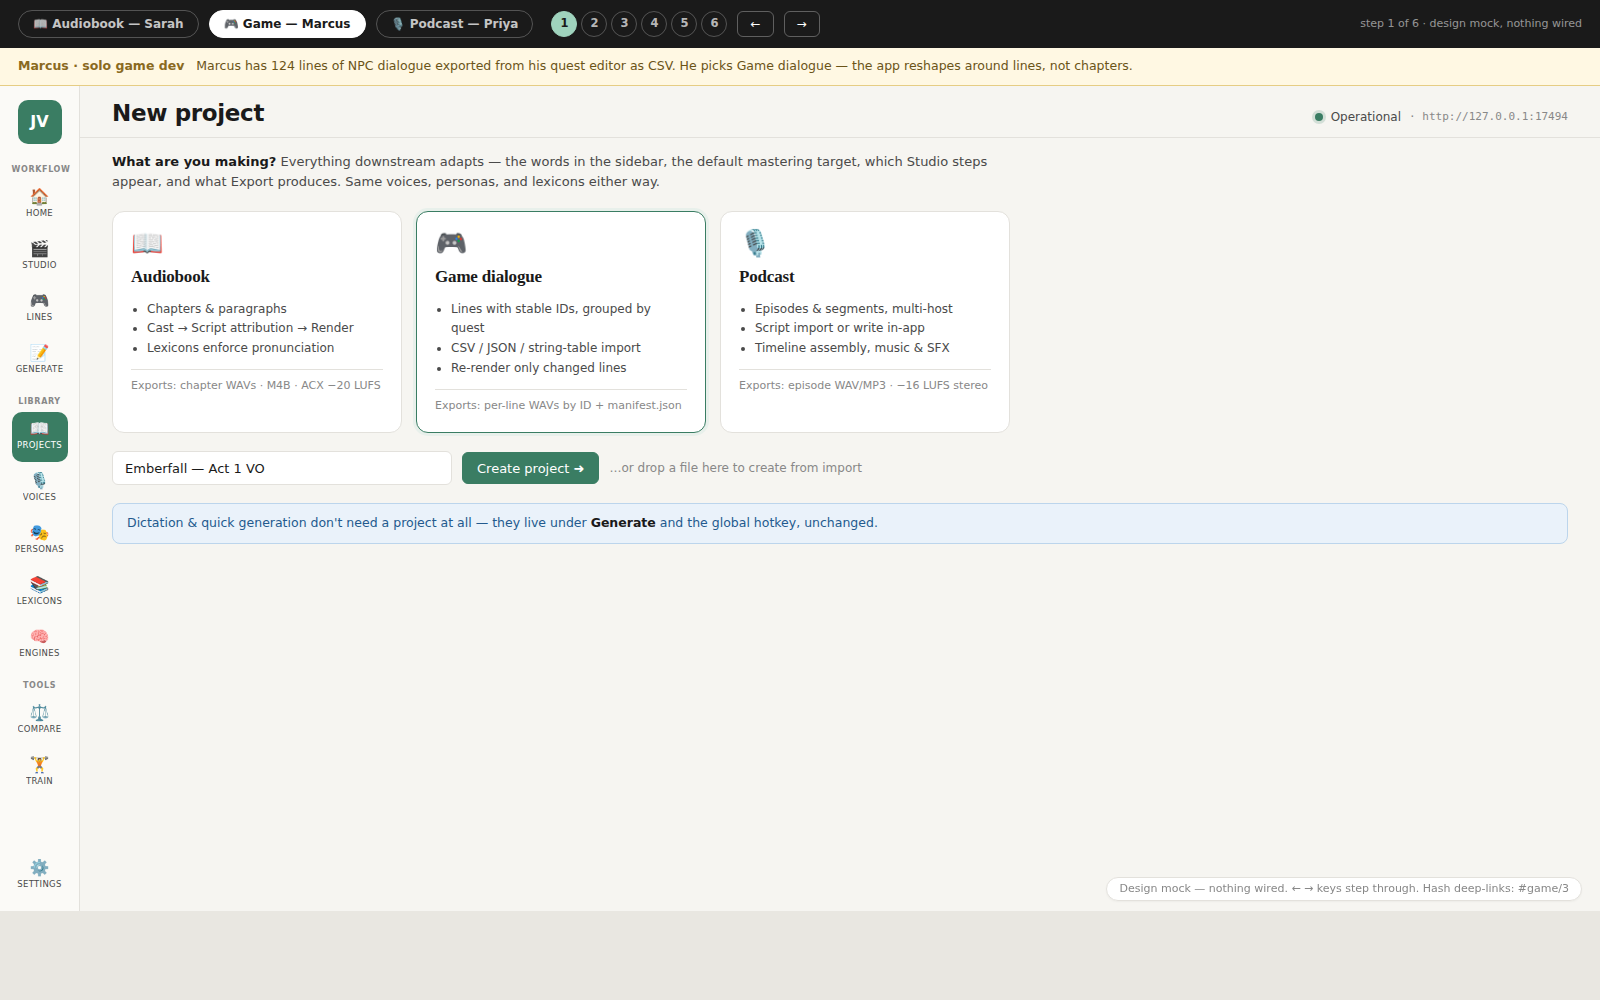
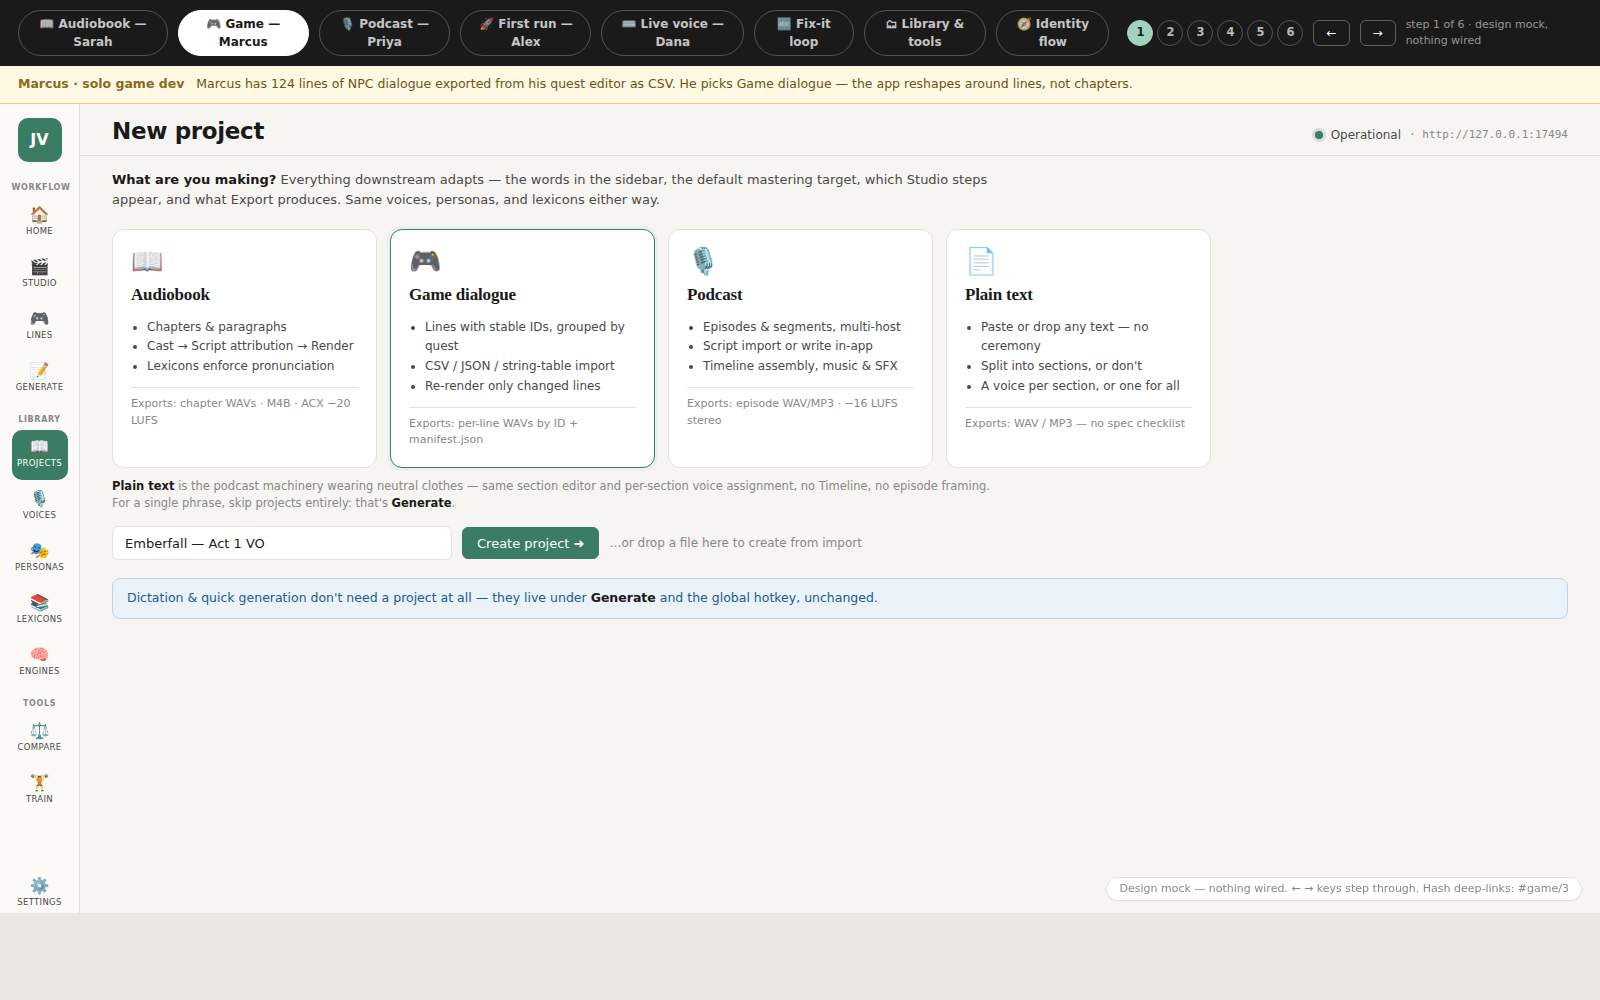
feat(design): journeys preview — Library & tools sweep (9 screens) + Plain-text kind
Library tab: Generate, Voices table w/ cast-as column, Personas library
w/ used-in chips, Projects list, Train fine-tune job, Render presets +
effects-chain editor, Audio channels & tools, Cache stats, Settings map.
Kind picker gains 📄 Plain text — thin alias over podcast segment
machinery (neutral labels, no Timeline, plain export). CONCEPTS §8
records the decision.

https://claude.ai/code/session_01RnHLzYNeJn2GgAMKW1BPmR

Changed region(s): [[0.0, 0.0, 1.0, 0.806], [0.0625, 0.589, 0.5625, 0.62], [0.0, 0.868, 0.0312, 0.899]]

diff --git a/preview/journeys-preview.html b/preview/journeys-preview.html
@@ -112,7 +112,7 @@ main{display:flex;flex-direction:column;overflow:hidden;background:var(--bg)}
 .vtable .grp td{background:var(--surface-3);font-weight:600;color:var(--ink);font-size:12px;padding:6px 13px}
 
 /* ── Kind picker ── */
-.kind-grid{display:grid;grid-template-columns:repeat(3,minmax(220px,290px));gap:14px;margin:8px 0 18px}
+.kind-grid{display:grid;grid-template-columns:repeat(4,minmax(200px,265px));gap:13px;margin:8px 0 18px}
 .kind-card{display:flex;flex-direction:column;gap:8px;background:var(--surface);border:1px solid var(--line);border-radius:12px;padding:18px;cursor:pointer;text-align:left}
 .kind-card:hover{border-color:var(--line-strong)}
 .kind-card.sel{border-color:var(--accent);box-shadow:0 0 0 3px var(--accent-soft)}
@@ -328,7 +328,9 @@ function kindPicker(sel){
       ${card("audiobook","📖","Audiobook",["Chapters &amp; paragraphs","Cast → Script attribution → Render","Lexicons enforce pronunciation"],"Exports: chapter WAVs · M4B · ACX −20 LUFS")}
       ${card("game","🎮","Game dialogue",["Lines with stable IDs, grouped by quest","CSV / JSON / string-table import","Re-render only changed lines"],"Exports: per-line WAVs by ID + manifest.json")}
       ${card("podcast","🎙","Podcast",["Episodes &amp; segments, multi-host","Script import or write in-app","Timeline assembly, music &amp; SFX"],"Exports: episode WAV/MP3 · −16 LUFS stereo")}
+      ${card("narration","📄","Plain text",["Paste or drop any text — no ceremony","Split into sections, or don't","A voice per section, or one for all"],"Exports: WAV / MP3 — no spec checklist")}
     </div>
+    <p class="muted" style="font-size:11.5px;margin:-8px 0 14px;max-width:880px"><strong>Plain text</strong> is the podcast machinery wearing neutral clothes — same section editor and per-section voice assignment, no Timeline, no episode framing. For a single phrase, skip projects entirely: that's <strong>Generate</strong>.</p>
     <div class="row">
       <input class="input" style="max-width:340px" value="${sel==='audiobook'?'Stillwater':sel==='game'?'Emberfall — Act 1 VO':'Signal & Noise'}" />
       <button class="btn">Create project ➜</button>
@@ -1000,6 +1002,149 @@ const stepsFixit = [
 ];
 
 
+/* ════════════════════════════════════════════════════════════════════
+   Journey G — Library & tools sweep (every remaining surface, in flow order)
+   ════════════════════════════════════════════════════════════════════ */
+const stepsLibrary = [
+{ nav:"Generate", t:"Generate — the no-project surface. Paste text, pick a voice, get a WAV. The knobs change with the engine's actual capabilities.",
+  html: () => shell("audiobook","Generate","Generate", "", `
+    <div class="two-col">
+      <div class="card"><div class="card-h"><strong>Quick generate</strong><span class="combo-cell">${glyph("Alex","#3a7d63")} Alex (cloned)<span class="chev">▼</span></span><span class="pill green">Chatterbox Turbo</span></div><div class="card-b">
+        <textarea class="input" style="height:90px;padding:10px 12px;resize:none">Welcome back. [chuckles] Let's pick up where we left off — chapter five, the storm cellar.</textarea>
+        <div class="row" style="margin:10px 0 4px;font-size:11.5px"><span class="muted">Insert tag:</span><span class="tagp">[laughs]</span><span class="tagp">[chuckles]</span><span class="tagp">[sighs]</span><span class="tagp">[whisper]</span><span class="muted" style="font-size:10.5px">— tags this engine supports; switching engine swaps the palette</span></div>
+        <div class="row" style="margin-top:10px">
+          <span class="pill">speed 1.0×</span><span class="pill">exaggeration 0.4</span><span class="pill">cfg 0.5</span><span class="pill ghost">+ engine knobs from capability manifest</span>
+          <span class="spacer"></span><button class="btn">▶ Generate</button>
+        </div>
+      </div></div>
+      <div class="card"><div class="card-h"><strong>History</strong><span class="muted" style="font-size:11.5px">today</span></div><div class="card-b">
+        ${[["Welcome back. [chuckles] Let's pick up where we…","Alex","2.8 s","just now"],["The lake had a way of holding the morning fog…","Alex","4.1 s","5 min"],["testing one two three","af_heart","1.2 s","1 h"]]
+          .map(h=>`<div class="row" style="border:1px solid var(--line);border-radius:8px;padding:8px 11px;margin-bottom:7px;flex-wrap:nowrap;font-size:12px"><button class="btn ghost sm">▶</button><span style="flex:1;min-width:0;overflow:hidden;text-overflow:ellipsis;white-space:nowrap">${h[0]}</span><span class="muted" style="flex:none;font-size:11px">${h[1]} · ${h[2]} · ${h[3]}</span><button class="btn ghost sm">⬇</button></div>`).join("")}
+        <p class="muted" style="font-size:11.5px;margin-top:4px">History is kept; anything good can be saved as a take or promoted into a project.</p>
+      </div></div>
+    </div>`) },
+
+{ nav:"Voices", t:"The voice library — every type in one table: cloned, preset, blended, trained. The “cast as” column links voices to the personas they back.",
+  html: () => shell("audiobook","Voices","Voices", "", `
+    <div class="row" style="margin-bottom:10px"><span class="combo-cell">Chatterbox Turbo<span class="chev">▼</span></span><input class="input" style="max-width:240px" placeholder="Search voices…"/><div class="chips"><button class="chip active">All</button><button class="chip">Cloned</button><button class="chip">Preset</button><button class="chip">Blended</button><button class="chip">Trained</button></div><span class="spacer"></span><button class="btn secondary sm">⬇ Import</button><button class="btn sm">＋ Clone new voice</button></div>
+    <div class="card" style="flex:1;min-height:0;overflow-y:auto">
+      <table class="vtable"><thead><tr><th style="width:30px"></th><th>Name</th><th>Type</th><th>G</th><th>Samples</th><th>Effects</th><th>Channel</th><th>Cast as</th><th class="right"></th></tr></thead><tbody>
+        ${[["Alex","cloned","M","3","—","Default","—"],["Sarah","cloned","F","4","—","Default","Narrator · Sarah (host)"],["Mara","cloned","F","2","radio","Default","Mara Vance · Vyra"],["Old Crow","cloned","M","3","radio · gain","OBS virtual","Tom Harlan · Capt. Hale"],["Blend: Narrator+Crow","blended","M","—","—","Default","The Gatekeeper"],["Alex (fine-tuned)","trained","M","12","—","Default","—"],["af_heart","preset","F","—","—","Default","Edith Vance"]]
+          .map(v=>`<tr><td><button class="btn ghost sm">▶</button></td><td><strong>${v[0]}</strong></td><td><span class="pill ${v[1]==='cloned'?'green':v[1]==='trained'?'blue':''}">${v[1]}</span></td><td>${v[2]}</td><td>${v[3]}</td><td class="muted" style="font-size:12px">${v[4]}</td><td class="muted" style="font-size:12px">${v[5]}</td><td class="muted" style="font-size:11.5px">${v[6]}</td><td class="right"><button class="btn ghost sm">Edit</button></td></tr>`).join("")}
+      </tbody></table>
+    </div>`) },
+
+{ nav:"Personas", t:"The persona library — characters that persist across projects. The “used in” chips are the whole reason personas exist.",
+  html: () => shell("audiobook","Personas","Personas", "", `
+    <div class="row" style="margin-bottom:10px"><input class="input" style="max-width:260px" placeholder="Search personas…"/><span class="spacer"></span><button class="btn sm">＋ New persona</button></div>
+    <div class="cast-grid" style="overflow-y:auto;padding:2px">
+      ${[["Mara Vance","mara","Mara (cloned)","speed 0.95× · noir","Stillwater"],
+         ["Narrator (Sarah)","narr","Sarah (cloned)","unhurried · warm","Stillwater"],
+         ["Tom Harlan","tom","Old Crow (cloned)","—","Stillwater"],
+         ["Guard Capt. Hale","guard","Old Crow (cloned)","gruff · +5% pace","Emberfall"],
+         ["The Hollow Voice","ghost","Blend: Narr+Crow","whisper · reverb chain","Emberfall"],
+         ["Sarah (host)","sarah","Sarah (cloned)","bright · +3% pace","Signal & Noise"]]
+        .map(p=>`<div class="cast-card"><span class="portrait" style="background:${C[p[1]]}">${p[0][0]}</span><div style="min-width:0;flex:1"><strong>${p[0]}</strong><div class="cast-voice">${glyph(p[2],C[p[1]])} ${p[2]} <button class="btn ghost sm">▶</button></div><div class="cast-role" style="margin-top:3px">${p[3]}</div><div style="margin-top:7px"><span class="eyebrow" style="font-size:9px">used in</span> <span class="pill ghost" style="font-size:10px">${p[4]}</span></div></div></div>`).join("")}
+    </div>
+    <div class="banner info" style="margin-top:12px">Editing a persona here (or on any Cast screen — same object) follows it everywhere it's used. “Duplicate for project” is the escape hatch for one-off variations.</div>`) },
+
+{ nav:"Projects", t:"All projects, all kinds, one list. The kind badge tells you what vocabulary and pipeline you'll land in when you open it.",
+  html: () => shell("audiobook","Projects","Projects", "", `
+    <div class="row" style="margin-bottom:10px"><input class="input" style="max-width:260px" placeholder="Search projects…"/><div class="chips"><button class="chip active">All</button><button class="chip">📖</button><button class="chip">🎮</button><button class="chip">🎙</button><button class="chip">📄</button></div><span class="spacer"></span><button class="btn sm">＋ New project</button></div>
+    <div class="card" style="flex:1;min-height:0;overflow-y:auto">
+      <table class="vtable"><thead><tr><th>Project</th><th>Kind</th><th class="right">Structure</th><th>Progress</th><th class="right">Last opened</th><th class="right"></th></tr></thead><tbody>
+        ${[["Stillwater","📖 Audiobook","8 chapters · 583 lines",'<span class="pill green">2 ch. mastered</span>',"today"],
+           ["Emberfall — Act 1 VO","🎮 Game","6 quests · 124 lines",'<span class="pill warn">12 stale</span>',"today"],
+           ["Signal & Noise","🎙 Podcast","42 episodes",'<span class="pill green">ep. 42 exported</span>',"yesterday"],
+           ["Q3 onboarding narration","📄 Narration","14 sections",'<span class="pill green">exported</span>',"Tue"],
+           ["Stillwater — book two","📖 Audiobook","3 chapters · draft",'<span class="pill ghost">—</span>',"Mon"]]
+          .map(p=>`<tr><td><strong>${p[0]}</strong></td><td>${p[1]}</td><td class="right muted" style="font-size:12px">${p[2]}</td><td>${p[3]}</td><td class="right muted" style="font-size:11.5px">${p[4]}</td><td class="right"><button class="btn ghost sm">Open ➜</button></td></tr>`).join("")}
+      </tbody></table>
+    </div>
+    <p class="muted" style="font-size:12px;margin-top:10px">Note <em>Stillwater — book two</em>: opened with the same cast — every persona arrived with voice, delivery, effects and lexicon intact.</p>`) },
+
+{ nav:"Train", t:"Train — when instant cloning isn't tight enough. Fine-tune on 10+ minutes; the result lands in the library as a new voice.",
+  html: () => shell("audiobook","Train","Train — fine-tune “Alex”", "", `
+    <div class="two-col">
+      <div class="card"><div class="card-h"><strong>Dataset</strong><span class="pill">14 min 20 s</span></div><div class="card-b">
+        ${[["3 clone samples","39.7 s","from Voices"],["9 promoted captures","2 min 41 s","from Captures"],["narration_session_01.wav","11 min","uploaded"]]
+          .map(d=>`<div class="row" style="border:1px solid var(--line);border-radius:8px;padding:8px 12px;margin-bottom:7px;flex-wrap:nowrap;font-size:12.5px"><input type="checkbox" checked style="accent-color:var(--accent)"/><strong style="flex:1">${d[0]}</strong><span class="muted" style="font-size:11.5px">${d[1]} · ${d[2]}</span></div>`).join("")}
+        <div class="banner good" style="margin-top:8px">10+ minutes recommended · transcripts auto-generated and editable before the run.</div>
+      </div></div>
+      <div class="card"><div class="card-h"><strong>Job</strong><span class="pill blue">running</span></div><div class="card-b">
+        <div class="sum-row"><span>Base</span><b>Alex (cloned) · Chatterbox Turbo</b></div>
+        <div class="sum-row"><span>Output name</span><b>Alex (fine-tuned)</b></div>
+        <div class="sum-row"><span>GPU</span><b>RTX 4070 · ~35 min est.</b></div>
+        <div style="margin:14px 0 6px" class="row"><span class="eyebrow" style="flex:none">epoch 6 / 20</span><div class="prog" style="flex:1"><div class="fill" style="width:31%"></div></div><span class="muted" style="font-size:11px">31%</span></div>
+        <div class="codeblock" style="margin-top:10px"><span class="k">epoch 5</span>  loss 0.241 → 0.198   <span class="s">val improving</span>
+<span class="k">epoch 6</span>  checkpoint saved · sample rendered ▶</div>
+        <div class="row" style="margin-top:10px"><button class="btn secondary sm">▶ Listen to epoch-6 sample</button><button class="btn ghost sm">Cancel job</button></div>
+      </div></div>
+    </div>`) },
+
+{ nav:"Studio", t:"Render presets + the effects-chain editor — the Tier-3 overlay that wins over persona defaults for one render job.",
+  html: () => shell("audiobook","Studio","Render presets", "", `
+    <div class="two-col">
+      <div class="card"><div class="card-h"><strong>Preset library</strong><span class="spacer"></span><button class="btn sm">＋ New preset</button></div><div class="card-b" style="padding:0">
+        <table class="vtable"><thead><tr><th>Preset</th><th>Master</th><th>Effects</th><th>Delivery</th><th class="right"></th></tr></thead><tbody>
+          ${[["Audiobook night mode","acx","warmth · de-ess","speed 0.97×"],["Quick draft (Kokoro)","—","—","speed 1.15×"],["Game VO — radio","—","bandpass · crush · gain","—"],["Podcast master","podcast","gate · de-ess","—"]]
+            .map((r,i)=>`<tr ${i===0?'style="background:var(--accent-soft)"':''}><td><strong>${r[0]}</strong></td><td><span class="pill ${r[1]!=='—'?'green':'ghost'}">${r[1]}</span></td><td class="muted" style="font-size:12px">${r[2]}</td><td class="muted" style="font-size:12px">${r[3]}</td><td class="right"><button class="btn ghost sm">Edit</button></td></tr>`).join("")}
+        </tbody></table>
+      </div></div>
+      <div class="card"><div class="card-h"><strong>Effects chain — “Audiobook night mode”</strong></div><div class="card-b">
+        <p class="muted" style="font-size:11.5px;margin-bottom:10px">Pedalboard-applied after TTS. Drag to reorder. Cascade: persona chain → preset chain (overlay) → per-line override.</p>
+        ${[["High-pass","80 Hz"],["De-esser","−4 dB @ 6 kHz"],["Warmth (sat)","drive 0.2"],["Gain","−1.5 dB"]]
+          .map((e,i)=>`<div class="row" style="border:1px solid var(--line);border-radius:8px;padding:9px 12px;margin-bottom:7px;flex-wrap:nowrap"><span class="muted" style="cursor:grab">⠿</span><strong style="flex:1;font-size:12.5px">${i+1} · ${e[0]}</strong><span class="mono muted" style="font-size:11px">${e[1]}</span><button class="btn ghost sm">✕</button></div>`).join("")}
+        <div class="row"><button class="btn secondary sm">＋ Add effect</button><span class="spacer"></span><button class="btn secondary sm">▶ Preview on test line</button></div>
+      </div></div>
+    </div>`) },
+
+{ nav:"Settings", t:"Audio channels & tools — where outputs route, and the standalone analyzer for any WAV that comes in or goes out.",
+  html: () => shell("audiobook","Settings","Audio — channels & tools", "", `
+    <div class="two-col">
+      <div class="card"><div class="card-h"><strong>Channels</strong><span class="spacer"></span><button class="btn secondary sm">＋ Add channel</button></div><div class="card-b" style="padding:0">
+        <table class="vtable"><thead><tr><th>Channel</th><th>Device</th><th>Used by</th><th class="right"></th></tr></thead><tbody>
+          ${[["Default","System speakers","previews · Generate"],["OBS Virtual Mic","VB-Cable A","Dana hotkey · Old Crow"],["Discord cable","VB-Cable B","Dana (alt)"],["Monitor","Headphones","render preview"]]
+            .map(c=>`<tr><td><strong>${c[0]}</strong></td><td class="muted" style="font-size:12px">${c[1]}</td><td class="muted" style="font-size:12px">${c[2]}</td><td class="right"><button class="btn ghost sm">▶ test</button></td></tr>`).join("")}
+        </tbody></table>
+      </div></div>
+      <div class="card"><div class="card-h"><strong>Audio tools</strong><span class="muted" style="font-size:11.5px">same analyzer Render uses</span></div><div class="card-b">
+        <div class="dropzone" style="margin-bottom:10px"><span class="filechip"><span class="ext">WAV</span> guest_interview_raw.wav</span><span class="muted" style="font-size:12px">drop any file to analyze</span></div>
+        <div class="sum-row"><span>Integrated loudness</span><b>−23.4 LUFS</b></div>
+        <div class="sum-row"><span>Peak</span><b>−1.1 dB</b></div>
+        <div class="sum-row"><span>Noise floor</span><b style="color:var(--warn-ink)">−48 dB ⚠ (target ≤ −60)</b></div>
+        <div class="row" style="margin-top:12px"><button class="btn secondary sm">Denoise</button><button class="btn secondary sm">Normalize to −16 LUFS</button><button class="btn secondary sm">Trim silence</button><span class="spacer"></span><button class="btn sm">Save copy</button></div>
+      </div></div>
+    </div>`) },
+
+{ nav:"Settings", t:"Cache — why re-renders are seconds, not hours. Takes are content-addressed; purging is informed, never required.",
+  html: () => shell("audiobook","Settings","Cache", "", `
+    <div style="display:grid;grid-template-columns:repeat(3,minmax(200px,1fr));gap:12px;max-width:880px;margin-bottom:14px">
+      ${[["Cached takes","1,847"],["On disk","3.2 GB"],["Hit rate (7 days)","71%"]]
+        .map(s=>`<div class="card" style="padding:14px 18px"><div class="eyebrow">${s[0]}</div><div class="display" style="margin-top:4px">${s[1]}</div></div>`).join("")}
+    </div>
+    <div class="card" style="max-width:880px"><div class="card-b" style="padding:0">
+      <table class="vtable"><thead><tr><th>Project</th><th class="right">Takes</th><th class="right">Size</th><th class="right">Stale</th><th class="right"></th></tr></thead><tbody>
+        ${[["Stillwater","583","1.9 GB","0"],["Emberfall — Act 1 VO","124","310 MB","12"],["Signal & Noise","412","840 MB","38"],["(no project — Generate)","728","190 MB","—"]]
+          .map(r=>`<tr><td><strong>${r[0]}</strong></td><td class="right">${r[1]}</td><td class="right">${r[2]}</td><td class="right">${r[3]==="0"?'<span class="pill green">0</span>':r[3]==="—"?"—":`<span class="pill warn">${r[3]}</span>`}</td><td class="right"><button class="btn ghost sm">Purge stale</button></td></tr>`).join("")}
+      </tbody></table>
+    </div></div>
+    <p class="muted" style="font-size:12px;margin-top:10px;max-width:880px">A take's cache key is <span class="mono" style="font-size:11px">hash(text + voice + delivery + effects + lexicon)</span> — change any input and only the affected takes go stale. Nothing is purged automatically.</p>`) },
+
+{ nav:"Settings", t:"Settings — every knob in one place, every one reachable via PATCH /v1/settings. No hardcoded values, full headless parity.",
+  html: () => shell("audiobook","Settings","Settings", "", `
+    <div style="display:grid;grid-template-columns:repeat(2,minmax(300px,1fr));gap:12px;max-width:980px">
+      ${[["General","Data directory · language · telemetry (off, local-only) · backup/restore"],
+         ["Appearance","Theme · accent · density — the Phase-4 visual identity lands here"],
+         ["AI features","Per-feature LLM bindings: speaker attribution · smart-assign · preset suggest — each can use a different provider, incl. local Ollama"],
+         ["Mastering targets","ACX · podcast · YouTube · INaudio — the per-kind defaults; duplicate &amp; tune"],
+         ["Dictation &amp; hotkey","Global hotkey · default voice · output channel · low-latency mode"],
+         ["Automation","MCP server on/off · webhook endpoints · scoped tokens"]]
+        .map(s=>`<div class="card" style="padding:14px 18px"><strong style="font-size:13px">${s[0]}</strong><p class="muted" style="font-size:11.5px;margin-top:5px;line-height:1.55">${s[1]}</p></div>`).join("")}
+    </div>
+    <div class="banner info" style="margin-top:14px;max-width:980px">Headless parity: everything here is reachable via <span class="mono" style="font-size:11px">PATCH /v1/settings</span> — the Tauri shell and <span class="mono" style="font-size:11px">justvoice-server serve</span> expose the same surface.</div>`) },
+];
+
 const JOURNEYS = {
   audiobook:{ label:"📖 Audiobook — Sarah", steps:stepsAudiobook, who:"Sarah · indie author" },
   game:     { label:"🎮 Game — Marcus",     steps:stepsGame,      who:"Marcus · solo game dev" },
@@ -1007,6 +1152,7 @@ const JOURNEYS = {
   firstrun: { label:"🚀 First run — Alex",  steps:stepsFirstrun,  who:"Alex · brand-new user" },
   dictation:{ label:"⌨ Live voice — Dana", steps:stepsDictation, who:"Dana · streamer, limited speech" },
   fixit:    { label:"🔤 Fix-it loop",        steps:stepsFixit,     who:"Sarah · pronunciation pass" },
+  library:  { label:"🗂 Library & tools",    steps:stepsLibrary,   who:"Shared machinery" },
   flow:     { label:"🧭 Identity flow",      steps:stepsFlow,      who:"Concept map" },
 };
 let cur = { j:"audiobook", s:0 };
@@ -1038,7 +1184,7 @@ document.addEventListener("keydown",e=>{
   if(e.key==="ArrowLeft") move(-1);
 });
 (function init(){
-  const m = location.hash.match(/^#(audiobook|game|podcast|firstrun|dictation|fixit|flow)\/(\d+)/);
+  const m = location.hash.match(/^#(audiobook|game|podcast|firstrun|dictation|fixit|library|flow)\/(\d+)/);
   if(m){ cur.j=m[1]; cur.s=Math.min(parseInt(m[2])-1, JOURNEYS[m[1]].steps.length-1); }
   render();
 })();

diff --git a/docs/CONCEPTS.md b/docs/CONCEPTS.md
@@ -152,3 +152,30 @@ the library, "Render Presets" in the sidebar, "ACX preset" on export) — the
 collision is confusing. Lean: rename mastering presets to **targets** (ACX
 target, podcast target); "preset" stays with the render-preset library, and
 "preset voice" reads as a plain adjective.
+
+## 8. Generic "paste some text" use → the Plain-text kind (thin alias)
+
+Question raised 2026-06-11: do we need a kind for "I just have pieces of
+text and want to manually assign a voice per piece"?
+
+Answer: **the podcast kind already covers the mechanics** — write-in-app
+segments, a speaker per segment, manual voice assignment, no import
+required. What it doesn't cover is the *front door*: a user making
+onboarding VO or a YouTube narration shouldn't have to read "Podcast" and
+mentally translate "Episodes".
+
+Decision: add a fourth kind, **📄 Plain text (Narration)**, as a thin alias
+over the podcast machinery:
+
+- Same section editor + per-section voice assignment (one voice for all is
+  just assigning once).
+- Neutral labels (Sections, not Episodes), **no Timeline**, no episode/ID3
+  framing.
+- Plain WAV/MP3 export, no spec checklist; mastering target configurable,
+  none by default.
+- Cost is near-zero: kinds are labels + defaults over the same
+  Scene/Block model — this is exactly what the kind switch exists for.
+
+Boundary with Generate: a single phrase needs no project at all — that's
+Generate. Plain-text projects are for text you want to *keep, structure,
+and re-render*.
